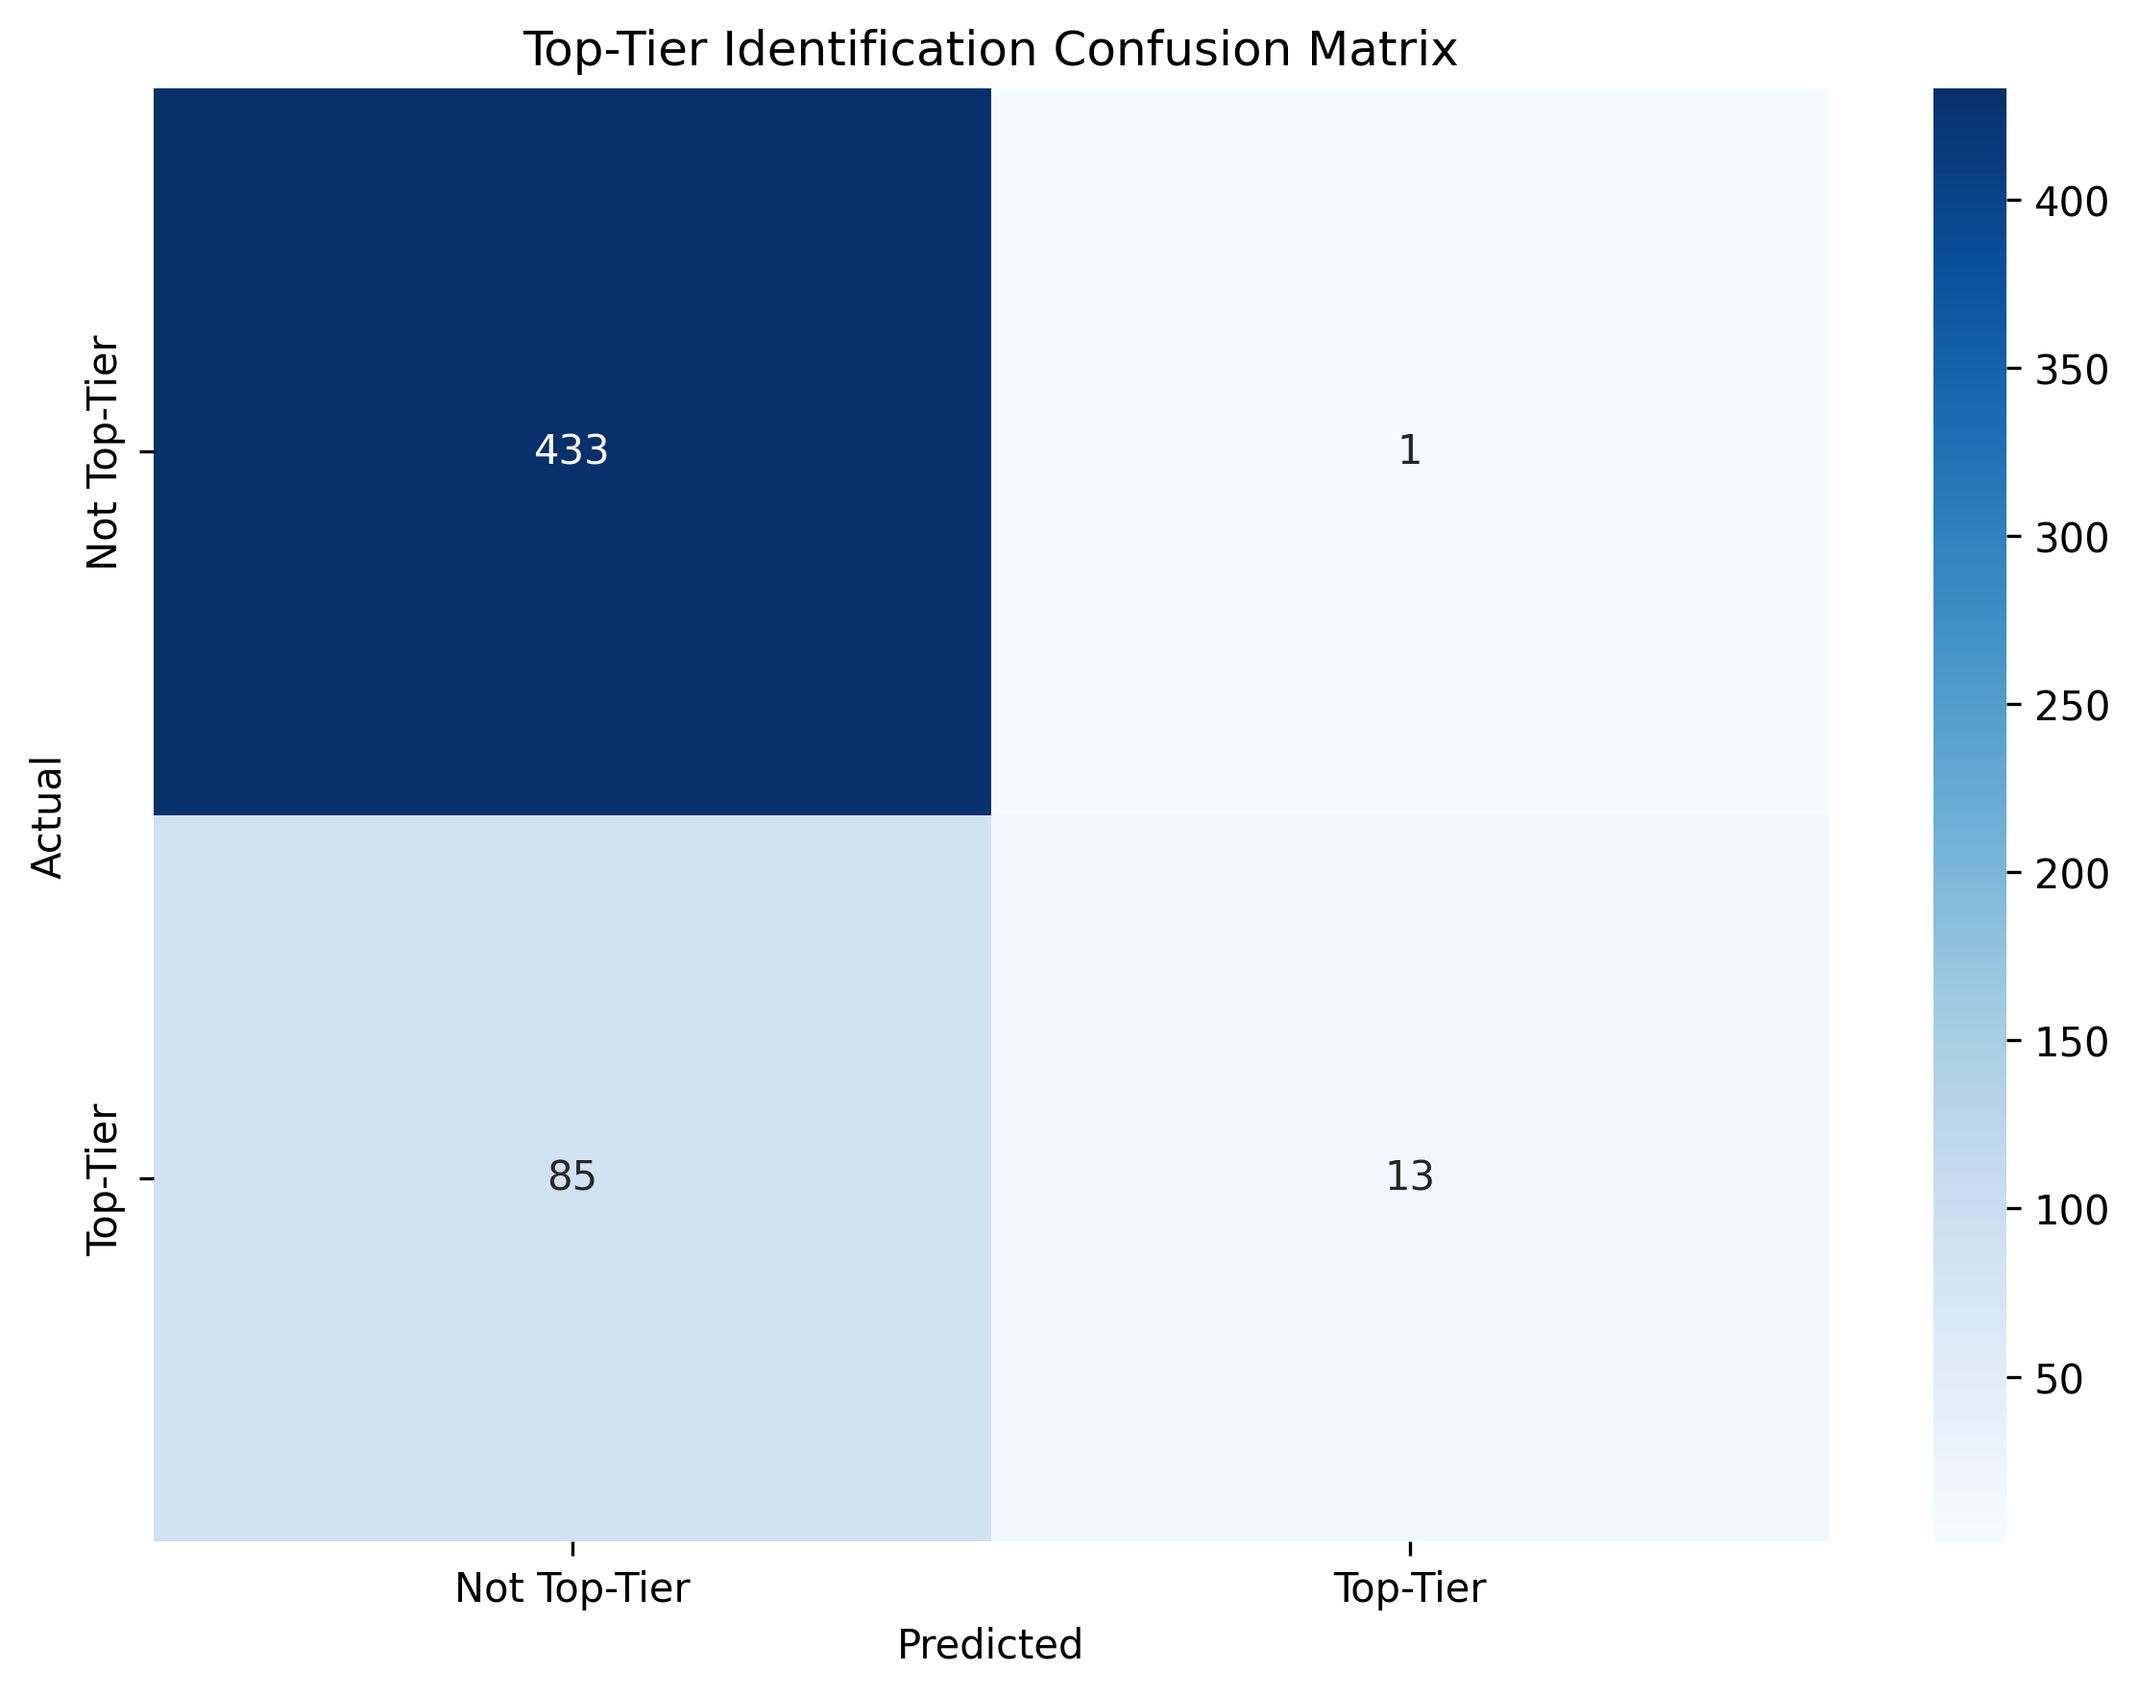
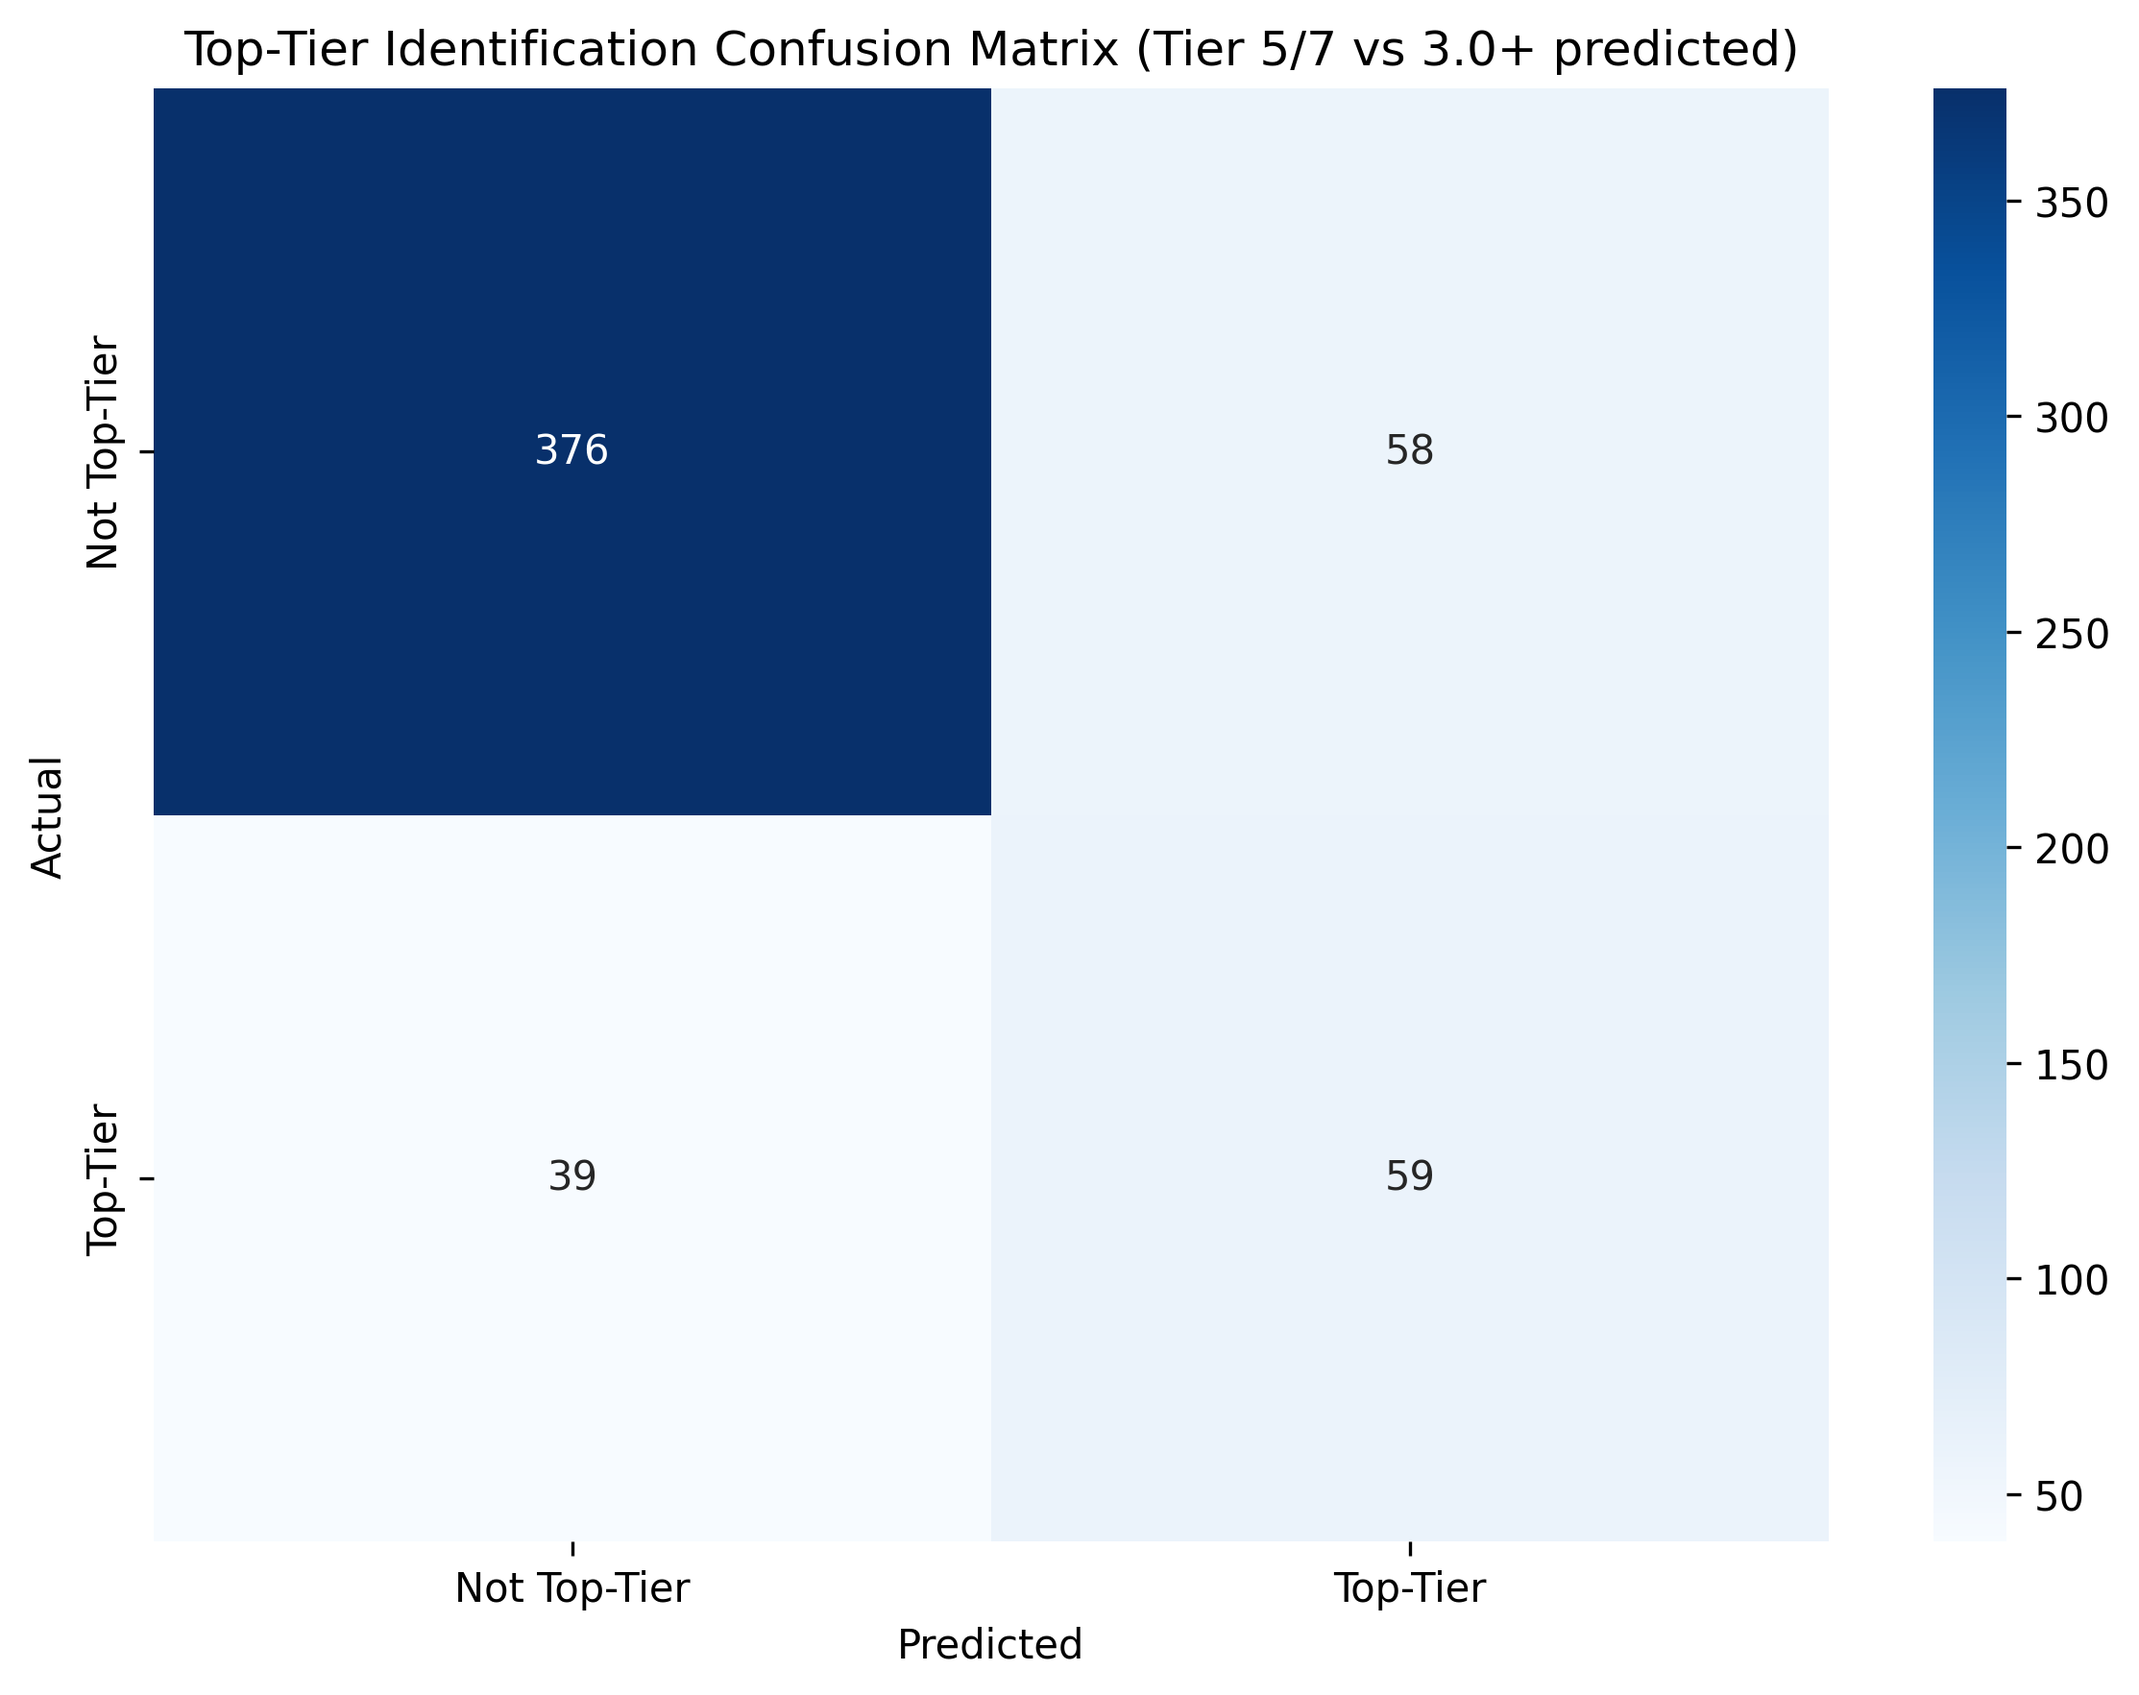
confusion matrix fix

diff --git a/accuracy_analysis.py b/accuracy_analysis.py
@@ -261,16 +261,16 @@ def create_visualizations(df):
     
     # 4. Top-tier identification confusion matrix
     plt.figure(figsize=(8, 6))
-    top_tier_threshold = 5
-    actual_top_tier = df['Actual Tier'] >= top_tier_threshold
-    predicted_top_tier = df['Predicted Score'] >= top_tier_threshold
+    # Match the superstar identification logic: actual tier 5 or 7, predicted 3.0+
+    actual_top_tier = df['Actual Tier'] >= 5
+    predicted_top_tier = df['Predicted Score'] >= 3.0
     
     from sklearn.metrics import confusion_matrix
     cm = confusion_matrix(actual_top_tier, predicted_top_tier)
     sns.heatmap(cm, annot=True, fmt='d', cmap='Blues', 
                 xticklabels=['Not Top-Tier', 'Top-Tier'],
                 yticklabels=['Not Top-Tier', 'Top-Tier'])
-    plt.title('Top-Tier Identification Confusion Matrix')
+    plt.title('Top-Tier Identification Confusion Matrix (Tier 5/7 vs 3.0+ predicted)')
     plt.xlabel('Predicted')
     plt.ylabel('Actual')
     plt.tight_layout()
